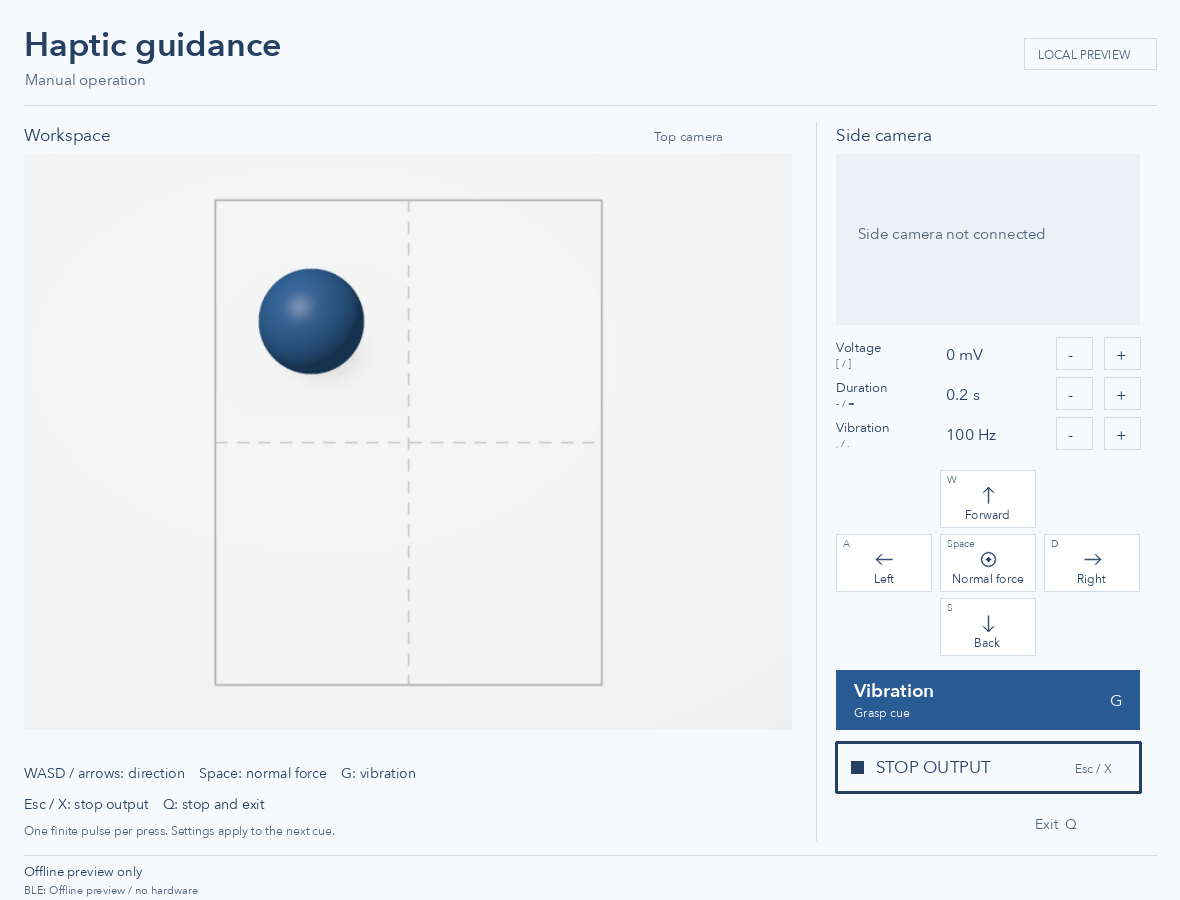
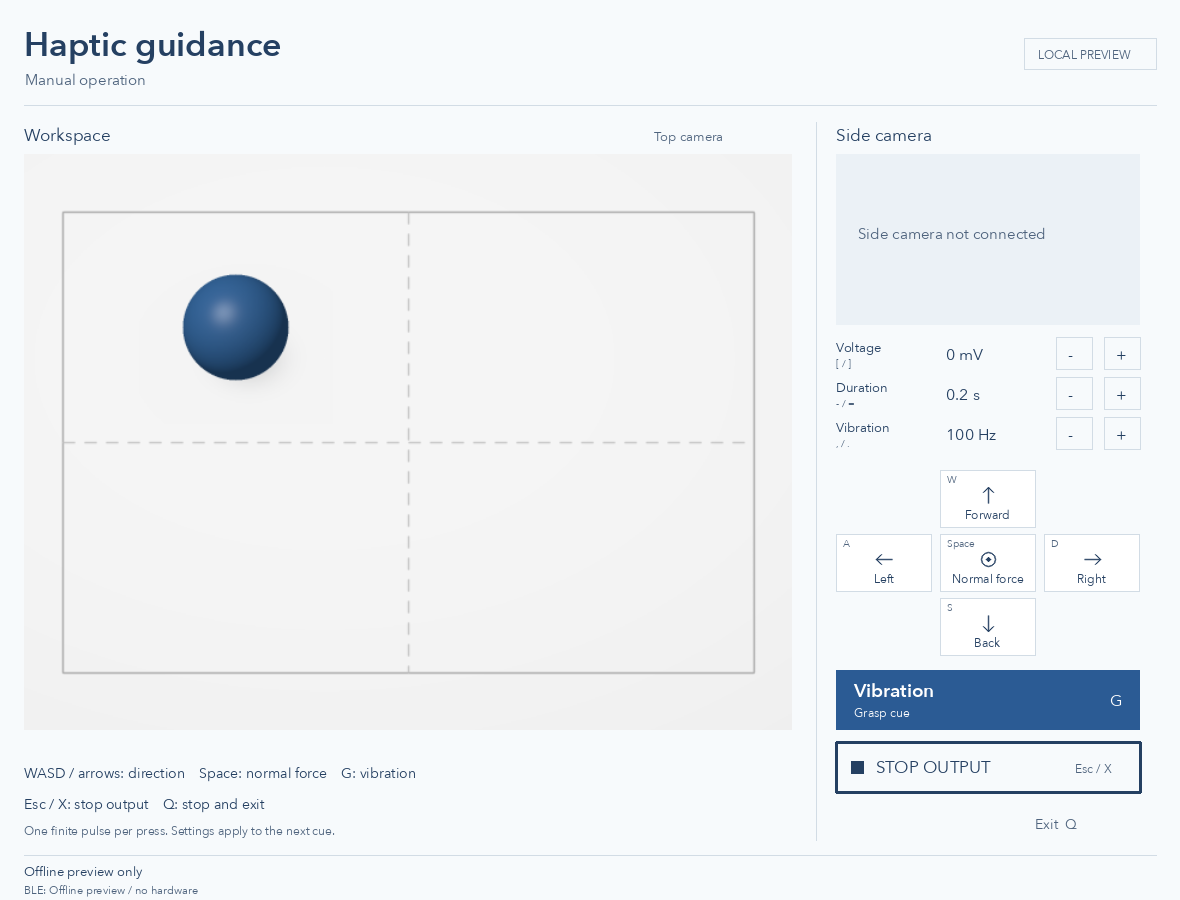
Use landscape workspace and 10 Hz frequency steps

Changed region(s): [[0.1525, 0.28, 0.3356, 0.4356], [0.1525, 0.2178, 0.5186, 0.2489], [0.1831, 0.7467, 0.5186, 0.7778]]

diff --git a/astra_demo/tests/test_operator_panel.py b/astra_demo/tests/test_operator_panel.py
@@ -47,14 +47,22 @@ class PanelTests(unittest.TestCase):
         p.handle_key(ord('='))
         self.assertEqual(p.settings.volts_mv,100)
         self.assertEqual(p.settings.duration_s,.3)
+        p.handle_key(ord('.'))
+        self.assertEqual(p.settings.frequency_hz,110)
+        p.handle_key(ord(','))
+        self.assertEqual(p.settings.frequency_hz,100)
         for _ in range(100):
             p.adjust('duration_s',1)
             p.adjust('volts_mv',1)
+            p.adjust('frequency_hz',1)
         self.assertEqual(p.settings.duration_s,5)
         self.assertEqual(p.settings.volts_mv,5000)
+        self.assertEqual(p.settings.frequency_hz,200)
         for _ in range(100):
             p.adjust('duration_s',-1)
+            p.adjust('frequency_hz',-1)
         self.assertEqual(p.settings.duration_s,.1)
+        self.assertEqual(p.settings.frequency_hz,10)
 
     def test_windows_key_repeat_requires_release(self):
         r=Recorder()
@@ -70,11 +78,11 @@ class PanelTests(unittest.TestCase):
         p.handle_key(ord('g'))
         self.assertEqual(len(r.calls),2)
 
-    def test_preview_and_portrait_workspace(self):
+    def test_preview_and_landscape_workspace(self):
         p=OperatorPanel()
         p.handle_key(ord('g'))
         self.assertIn('no output',p.message)
         self.assertEqual(p.render(preview_inputs()).shape,(900,1180,3))
         for w,h in [(640,480),(1280,720),(480,640)]:
             x0,x1,y0,y1=workspace_bounds(w,h)
-            self.assertAlmostEqual((x1-x0)/(y1-y0),.8,places=2)
+            self.assertAlmostEqual((x1-x0)/(y1-y0),1.5,places=2)

diff --git a/astra_demo/operator_panel.py b/astra_demo/operator_panel.py
@@ -75,9 +75,9 @@ def fit_camera(canvas, frame, rect, empty_label):
 
 
 def workspace_bounds(w, h):
-    # Derive width from height so camera aspect ratio cannot make the area squat.
-    height = min(h * .84, w * .90 / .80)
-    half_width = height * .80 / 2
+    # Keep X longer than Y regardless of the incoming camera aspect ratio.
+    height = min(h * .84, w * .90 / 1.50)
+    half_width = height * 1.50 / 2
     return (round(w / 2 - half_width), round(w / 2 + half_width),
             round((h - height) / 2), round((h + height) / 2))
 
@@ -167,7 +167,7 @@ class OperatorPanel:
 
     def adjust(self, field, direction):
         step, lo, hi = {'volts_mv': (100, 0, 5000), 'duration_s': (.1, .1, 5.),
-                        'frequency_hz': (1, 1, 200)}[field]
+                        'frequency_hz': (10, 10, 200)}[field]
         value = min(hi, max(lo, round(getattr(self.settings, field) + direction * step, 2)))
         self.settings = replace(self.settings, **{field: value})
 

diff --git a/astra_demo/manual_control.py b/astra_demo/manual_control.py
@@ -33,8 +33,8 @@ class Actuation:
             raise ValueError("Voltage must be 0..5000 mV")
         if not math.isfinite(self.duration_s) or not 0.1 <= self.duration_s <= 5.0:
             raise ValueError("Duration must be 0.1..5.0 s (no infinite output)")
-        if not isinstance(self.frequency_hz, int) or not 1 <= self.frequency_hz <= 200:
-            raise ValueError("Vibration frequency must be 1..200 Hz")
+        if not isinstance(self.frequency_hz, int) or not 10 <= self.frequency_hz <= 200:
+            raise ValueError("Vibration frequency must be 10..200 Hz")
 
 
 def command_packet(cue, settings):

diff --git a/astra_demo/config.py b/astra_demo/config.py
@@ -85,7 +85,7 @@ class AstraDemoConfig:
     manual_voltage_mv: int = 0
     # Finite pulse duration, 0.1..5.0 seconds. The PC schedules the stop command.
     manual_duration_s: float = 0.2
-    # Vibration only, 1..200 Hz. Directional and normal cues use Static mode.
+    # Vibration only, 10..200 Hz; UI step is 10 Hz. Force cues use Static mode.
     manual_frequency_hz: int = 100
     # Legacy automatic-grasp settings below are not used by the manual entry point.
     # Single demo haptic voltage shared by every successful grab.

diff --git a/astra_demo/tests/test_manual_control.py b/astra_demo/tests/test_manual_control.py
@@ -45,7 +45,7 @@ class ProtocolTests(unittest.TestCase):
     def test_invalid_settings(self):
         for settings in [Actuation(-1), Actuation(5001), Actuation(duration_s=0),
                          Actuation(duration_s=6), Actuation(duration_s=float('nan')),
-                         Actuation(frequency_hz=201)]:
+                         Actuation(frequency_hz=201), Actuation(frequency_hz=9)]:
             with self.assertRaises(ValueError):
                 command_packet(Cue.NORMAL, settings)
 

diff --git a/astra_demo/README.md b/astra_demo/README.md
@@ -3,13 +3,13 @@
 ## 手动硬件控制
 
 新版全英文操作员面板与快捷键说明见仓库根目录的 `README.md`。
-新版统一蓝色系，保持宽高比约 4:5 的竖向矩形与四区虚线，小球位于左上区。不做区域命中判断，不显示 IDLE/ZONE/pinch。
+新版统一蓝色系，使用宽高比约 3:2 的横向矩形（X 轴长、Y 轴短）与四区虚线，小球位于左上区。不做区域命中判断，不显示 IDLE/ZONE/pinch。
 CSV 兼容列 `target_key` 固定为 `0`。下文涉及 zone 的说明为旧版实验记录。
 请先执行 `python -m pip install -r requirements.txt` 安装新增的 Pillow 字体渲染依赖。
 `python -m astra_demo.operator_panel --preview` 可独立预览界面和蓝色球体，无需相机或 BLE。
 真实主程序中，`W/A/S/D` 或方向键施加四方向静态力，`Space` 施加法向力，`G` 发出振动提示。
 `Esc` / `X` / STOP OUTPUT 关闭输出，`Q` 停止后退出；也支持鼠标点击。法向力不是关闭输出。
-右侧 +/- 调节电压、时长与振动频率。默认 0 mV、0.2 s、100 Hz，需主动增加电压才允许输出。
+右侧 +/- 调节电压、时长与振动频率，步长分别为 100 mV、0.1 s、10 Hz。默认 0 mV、0.2 s、100 Hz，需主动增加电压才允许输出。
 完整参数范围、快捷键、协议方向和停止限制见根目录 README。强度需要实机校准，软件上限不是安全额定值。
 原来的抓取自动振动已移除，视觉跟手与抓取日志保留。离线 `--preview` / `--snapshot` 不连接硬件。
 下文自动振动及 zone 描述为历史流程，以根目录手动控制说明为准。

diff --git a/README.md b/README.md
@@ -4,7 +4,7 @@
 
 新增全英文 `Haptic Guidance | Operator` 面板：左侧顶视画面，右侧侧视预览与手动指令按钮。
 界面统一蓝色系，不显示 IDLE、ZONE 或 pinch 调试数值。
-工作平面保持宽高比约 4:5 的竖向矩形与四区虚线，不执行区域命中计算。蓝色小球初始位于左上区，选中状态同时使用文字和边框提示。旧 CSV 的 `target_key` 列保留兼容，
+工作平面使用宽高比约 3:2 的横向矩形（X 轴长、Y 轴短）与四区虚线，不执行区域命中计算。蓝色小球初始位于左上区，选中状态同时使用文字和边框提示。旧 CSV 的 `target_key` 列保留兼容，
 新运行写入 `0`，不再代表目标区域。下文的四宫格实验说明仅适用于旧版。
 **主程序的按钮和键盘现已发送真实 BLE 指令。原来的抓取上升沿自动振动已关闭。**
 视觉抓取、小球跟手和抓取 CSV 保留；按 G 是向参与者发出振动提示，不是强制把视觉状态设为 GRAB。
@@ -31,7 +31,7 @@
 | --- | --- | --- | --- |
 | Voltage | 0 mV | 0–5000 mV / 100 mV | `[` / `]` |
 | Duration | 0.2 s | 0.1–5.0 s / 0.1 s | `-` / `=` |
-| Vibration frequency | 100 Hz | 1–200 Hz / 1 Hz | `,` / `.` |
+| Vibration frequency | 100 Hz | 10–200 Hz / 10 Hz | `,` / `.` |
 
 0 mV 时拒绝执行力/振动指令，需由操作者主动提高电压。上限只是软件范围，不代表装置的安全工作范围。
 Static 力指令的频率字段固定为 0；频率调节只影响振动。初始值在 `astra_demo/config.py` 的
